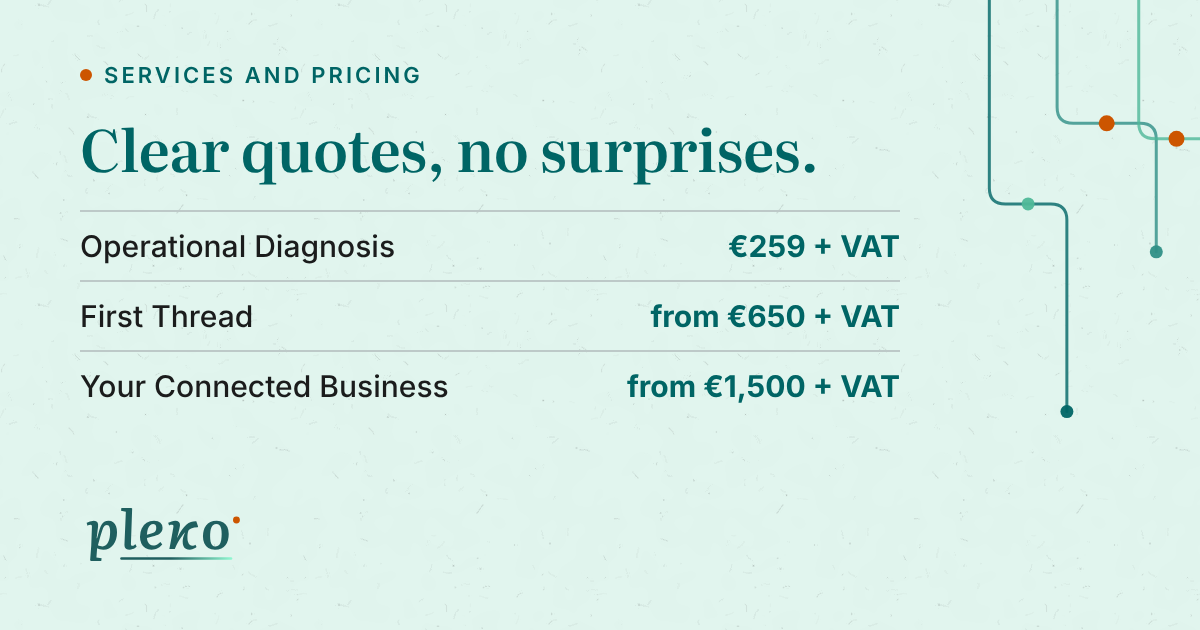
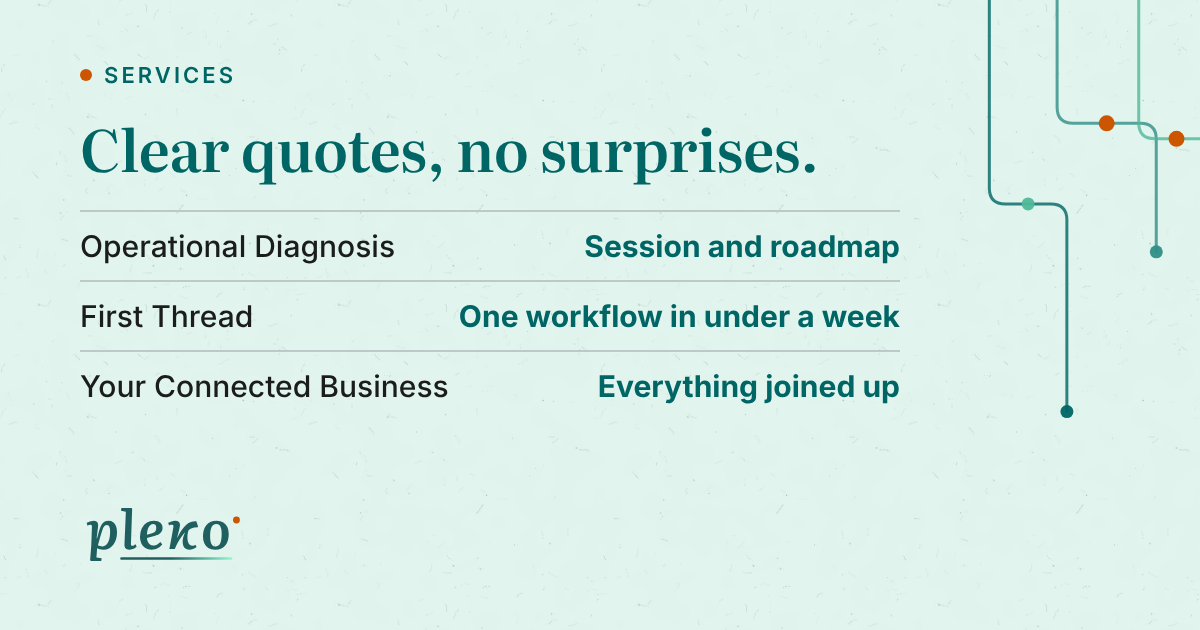
Services preview cards and og text without prices (Alex rule)
Claude-Session: https://claude.ai/code/session_01UCx3vNiASG5fLxtg3qpkDj

diff --git a/servicios/index.html b/servicios/index.html
@@ -10,11 +10,11 @@
 
   <!-- Open Graph: controls how this page looks when shared on LinkedIn, Slack, etc. -->
   <meta property="og:title" content="Servicios y tarifas: automatización e IA en Barcelona | pleko" />
-  <meta property="og:description" content="Presupuestos claros, sin sorpresas: diagnóstico operativo de 259 €, una automatización desde 650 € y tu negocio conectado desde 1.500 € (+ IVA). Soporte mensual opcional." />
+  <meta property="og:description" content="Presupuestos claros, sin sorpresas: un diagnóstico operativo, una automatización concreta o tu negocio conectado, con soporte mensual opcional." />
   <meta property="og:image" content="https://pleko.es/og/servicios-es.png" />
   <meta property="og:image:width" content="1200" />
   <meta property="og:image:height" content="630" />
-  <meta property="og:image:alt" content="Servicios y precios de pleko: Diagnóstico Operativo 259 € + IVA, Primer Hilo desde 650 €, Tu Negocio Conectado desde 1.500 €" />
+  <meta property="og:image:alt" content="Servicios de pleko: Diagnóstico Operativo, Primer Hilo y Tu Negocio Conectado" />
   <meta property="og:url" content="https://pleko.es/servicios/" />
   <meta property="og:site_name" content="pleko.es" />
   <meta property="og:locale" content="es_ES" />

diff --git a/en/services/index.html b/en/services/index.html
@@ -10,11 +10,11 @@
 
   <!-- Open Graph: controls how this page looks when shared on LinkedIn, Slack, etc. -->
   <meta property="og:title" content="Services and pricing: automation and AI in Barcelona | pleko" />
-  <meta property="og:description" content="Clear quotes, no surprises: a €259 operational diagnosis, one automation from €650 and your connected business from €1,500 (+ VAT). Optional monthly support." />
+  <meta property="og:description" content="Clear quotes, no surprises: an operational diagnosis, one specific automation or your connected business, with optional monthly support." />
   <meta property="og:image" content="https://pleko.es/og/services-en.png" />
   <meta property="og:image:width" content="1200" />
   <meta property="og:image:height" content="630" />
-  <meta property="og:image:alt" content="pleko services and pricing: Operational Diagnosis €259 + VAT, First Thread from €650, Your Connected Business from €1,500" />
+  <meta property="og:image:alt" content="pleko services: Operational Diagnosis, First Thread and Your Connected Business" />
   <meta property="og:url" content="https://pleko.es/en/services/" />
   <meta property="og:site_name" content="pleko.es" />
   <meta property="og:locale" content="en_GB" />
